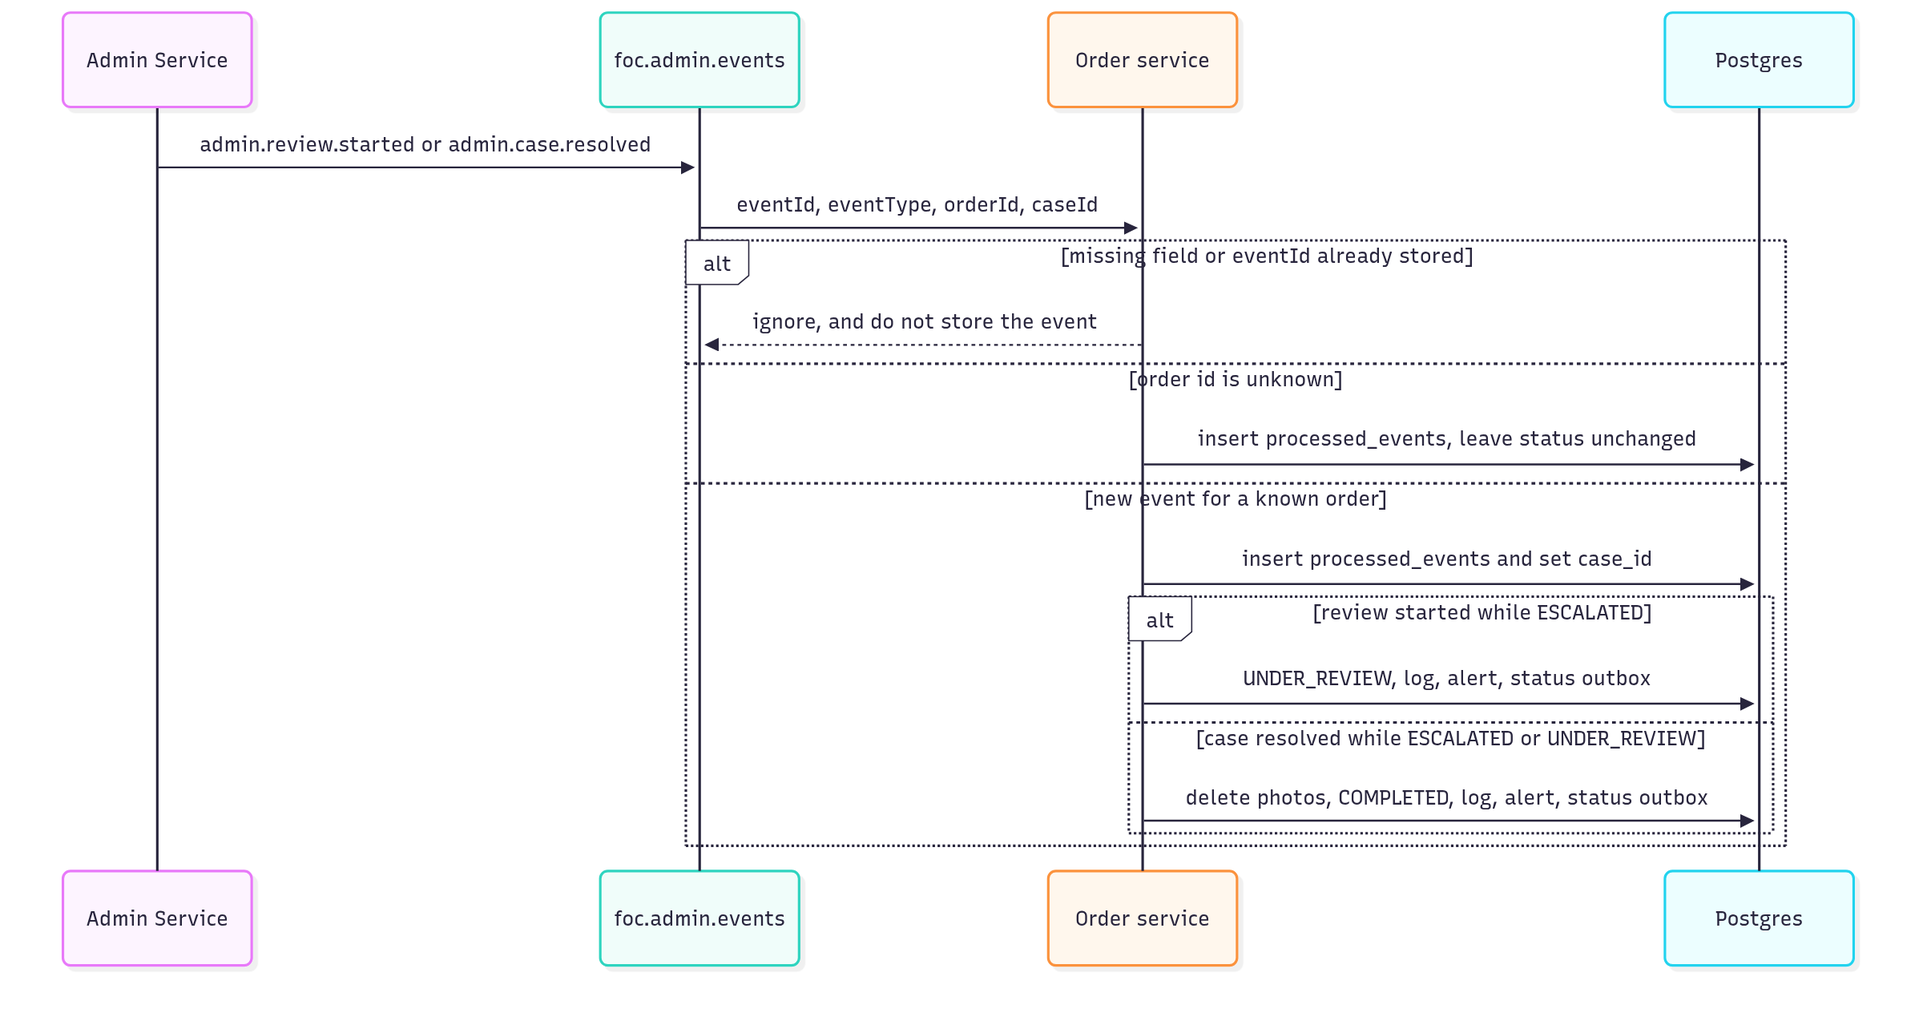
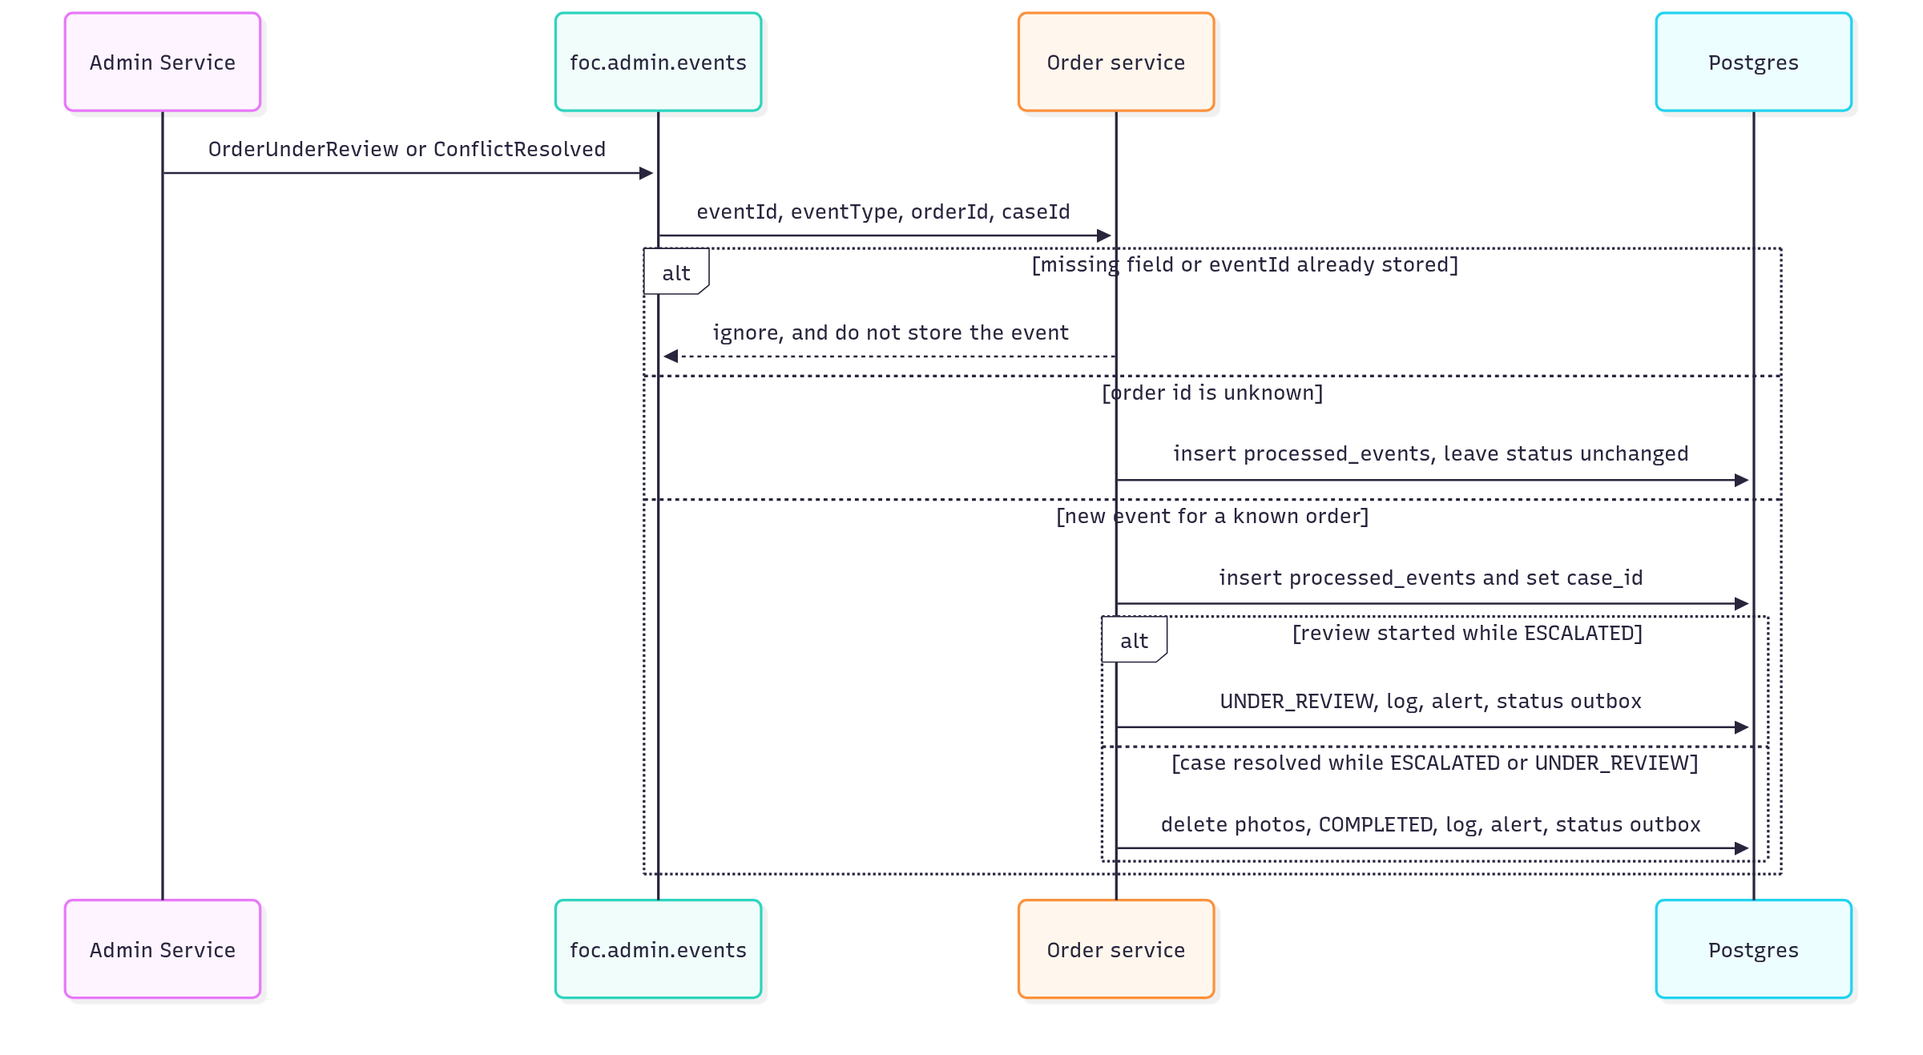
Integrate with Admin Service

diff --git a/order-service/src/main/java/sg/edu/nus/cs3219/order/service/OrderCommandService.java b/order-service/src/main/java/sg/edu/nus/cs3219/order/service/OrderCommandService.java
@@ -5,7 +5,6 @@ import org.springframework.transaction.annotation.Transactional;
 import org.springframework.web.multipart.MultipartFile;
 import sg.edu.nus.cs3219.order.client.AdminClient;
 import sg.edu.nus.cs3219.order.client.CreditClient;
-import sg.edu.nus.cs3219.order.client.OrderContext;
 import sg.edu.nus.cs3219.order.client.Place;
 import sg.edu.nus.cs3219.order.client.RatingClient;
 import sg.edu.nus.cs3219.order.client.SupplierClient;
@@ -31,6 +30,8 @@ import sg.edu.nus.cs3219.order.rest.CreateOrderRequest;
 
 import java.time.Clock;
 import java.time.Instant;
+import java.util.ArrayList;
+import java.util.List;
 import java.util.UUID;
 
 @Service
@@ -232,7 +233,7 @@ public class OrderCommandService {
         if (photo != null && !photo.isEmpty()) {
             order.setDisputePhotoRef(photos.store(orderId, "dispute", photo));
         }
-        admins.escalate(orderContext(order, comment), requester);
+        admins.openConflict(order.getId(), requester.userId(), comment, evidence(order));
         order.setDisputeText(comment);
         transition(order, OrderStatus.ESCALATED, true, now, OrderAction.ESCALATED, requester.userId());
         return order;
@@ -264,8 +265,8 @@ public class OrderCommandService {
         if (!OrderStateMachine.deliveryMissed(order.snapshot(), now)) {
             return;
         }
+        admins.openConflict(order.getId(), order.getRequesterId(), "Delivery deadline missed", evidence(order));
         transition(order, OrderStatus.ESCALATED, true, now, OrderAction.DELIVERY_DEADLINE_MISSED, null);
-        outbox.append(order.getId(), KafkaTopics.ADMIN_COMMANDS, messages.escalationOpened(order, now), now);
     }
 
     @Transactional
@@ -319,6 +320,20 @@ public class OrderCommandService {
         }
     }
 
+    private static List<String> evidence(OrderEntity order) {
+        List<String> refs = new ArrayList<>();
+        addEvidence(refs, order.getCollectionPhotoRef());
+        addEvidence(refs, order.getDeliveryPhotoRef());
+        addEvidence(refs, order.getDisputePhotoRef());
+        return refs;
+    }
+
+    private static void addEvidence(List<String> refs, String ref) {
+        if (ref != null && !ref.isBlank()) {
+            refs.add(ref);
+        }
+    }
+
     private void releaseAndAllowRequesterRating(OrderEntity order, String reason, Instant now) {
         outbox.append(order.getId(), KafkaTopics.CREDIT, messages.creditRelease(order, reason, now), now);
         outbox.append(
@@ -367,38 +382,6 @@ public class OrderCommandService {
                 KafkaTopics.ORDER_STATUS,
                 messages.statusChanged(order, from, to, notifyRequester, now),
                 now
-        );
-    }
-
-    private static OrderContext orderContext(OrderEntity order, String comment) {
-        return new OrderContext(
-                order.getId(),
-                order.getStatus().name(),
-                order.getItemDescription(),
-                order.getAmount(),
-                order.getRequesterId(),
-                order.getRequesterTelegramHandle(),
-                order.getRequesterRating(),
-                order.getCourierId(),
-                order.getCourierTelegramHandle(),
-                order.getCourierRating(),
-                order.getRequestTime(),
-                order.getAcceptanceExpiry(),
-                order.getDeliveryDeadline(),
-                order.getCollectionDeadline(),
-                order.getAcknowledgementDeadline(),
-                order.getPickupLocationId(),
-                order.getPickupName(),
-                order.getPickupLat(),
-                order.getPickupLng(),
-                order.getDropoffLocationId(),
-                order.getDropoffName(),
-                order.getDropoffLat(),
-                order.getDropoffLng(),
-                order.getCollectionPhotoRef(),
-                order.getDeliveryPhotoRef(),
-                order.getDisputePhotoRef(),
-                comment
         );
     }
 

diff --git a/order-service/src/main/java/sg/edu/nus/cs3219/order/client/HttpClients.java b/order-service/src/main/java/sg/edu/nus/cs3219/order/client/HttpClients.java
@@ -15,18 +15,21 @@ import tools.jackson.databind.JsonNode;
 import tools.jackson.databind.json.JsonMapper;
 
 import java.time.Duration;
+import java.util.List;
 import java.util.UUID;
 
 @Component
-public class HttpClients implements CreditClient, SupplierClient, UserClient {
+public class HttpClients implements CreditClient, SupplierClient, UserClient, AdminClient {
 
     private static final String NOT_APPROVED = "That location is not an approved supplier";
     private static final String USER_FAILED = "User service could not complete the request";
+    private static final String ADMIN_FAILED = "Admin service could not complete the request";
     private static final String SERVICE_TOKEN = "X-Service-Token";
 
     private final RestClient credits;
     private final RestClient suppliers;
     private final RestClient users;
+    private final RestClient admins;
     private final String userLookupToken;
 
     public HttpClients(OrderProperties properties) {
@@ -34,6 +37,7 @@ public class HttpClients implements CreditClient, SupplierClient, UserClient {
         this.credits = client(properties.getClients().getCreditBaseUrl(), timeout);
         this.suppliers = client(properties.getClients().getSupplierBaseUrl(), timeout);
         this.users = client(properties.getClients().getUserBaseUrl(), timeout);
+        this.admins = client(properties.getClients().getAdminBaseUrl(), timeout);
         this.userLookupToken = properties.getClients().getUserLookupToken();
     }
 
@@ -88,6 +92,25 @@ public class HttpClients implements CreditClient, SupplierClient, UserClient {
             throw userFailure(exception);
         } catch (ResourceAccessException exception) {
             throw ApiException.unavailable("User service did not respond in time");
+        }
+    }
+
+    @Override
+    public void openConflict(UUID orderId, String reporterUserId, String comment, List<String> photos) {
+        try {
+            admins.post()
+                    .uri("/api/v1/admin/conflicts")
+                    .body(new ConflictRequest(orderId.toString(), reporterUserId, comment, photos == null ? List.of() : photos))
+                    .retrieve()
+                    .toBodilessEntity();
+        } catch (RestClientResponseException exception) {
+            int status = exception.getStatusCode().value();
+            if (status == 400 || status == 422) {
+                throw ApiException.badRequest("Admin service rejected the escalation");
+            }
+            throw ApiException.unavailable(ADMIN_FAILED);
+        } catch (ResourceAccessException exception) {
+            throw ApiException.unavailable("Admin service did not respond in time");
         }
     }
 
@@ -169,6 +192,9 @@ public class HttpClients implements CreditClient, SupplierClient, UserClient {
     }
 
     private record ReleaseRequest(UUID orderId) {
+    }
+
+    private record ConflictRequest(String orderId, String reporterUserId, String comment, List<String> photos) {
     }
 
     private record SupplierResponse(Integer id, String name, double latitude, double longitude, String status) {

diff --git a/order-service/src/test/java/sg/edu/nus/cs3219/order/client/HttpClientsTest.java b/order-service/src/test/java/sg/edu/nus/cs3219/order/client/HttpClientsTest.java
@@ -80,6 +80,18 @@ class HttpClientsTest {
                     status = 500;
                     yield "{\"error\":\"nope\",\"code\":\"INTERNAL_ERROR\"}".getBytes(StandardCharsets.UTF_8);
                 }
+                case "/api/v1/admin/conflicts" -> {
+                    if (requestBody.contains("\"comment\":\"\"")) {
+                        status = 422;
+                        yield "{\"detail\":\"rejected\"}".getBytes(StandardCharsets.UTF_8);
+                    }
+                    if (requestBody.contains("admin-down")) {
+                        status = 500;
+                        yield "{\"detail\":\"nope\"}".getBytes(StandardCharsets.UTF_8);
+                    }
+                    status = 201;
+                    yield "{\"id\":\"case-1\"}".getBytes(StandardCharsets.UTF_8);
+                }
                 default -> {
                     CreditProblem credit = creditProblem(requestBody);
                     if (credit == null) {
@@ -129,6 +141,17 @@ class HttpClientsTest {
         assertEquals(HttpStatus.CONFLICT, assertThrows(ApiException.class, () -> clients.telegramHandle("unverified")).getStatus());
         assertEquals(HttpStatus.SERVICE_UNAVAILABLE, assertThrows(ApiException.class, () -> clients.telegramHandle("blank")).getStatus());
         assertEquals(HttpStatus.SERVICE_UNAVAILABLE, assertThrows(ApiException.class, () -> clients.telegramHandle("down")).getStatus());
+
+        clients.openConflict(orderId, "ada-id", "wrong item", java.util.List.of("a.png"));
+        assertEquals("/api/v1/admin/conflicts", lastPath.get());
+        assertTrue(lastBody.get().contains("\"orderId\":\"" + orderId + "\""));
+        assertTrue(lastBody.get().contains("\"reporterUserId\":\"ada-id\""));
+        assertTrue(lastBody.get().contains("\"comment\":\"wrong item\""));
+        assertTrue(lastBody.get().contains("a.png"));
+        assertEquals(HttpStatus.BAD_REQUEST, assertThrows(ApiException.class,
+                () -> clients.openConflict(orderId, "ada-id", "", java.util.List.of())).getStatus());
+        assertEquals(HttpStatus.SERVICE_UNAVAILABLE, assertThrows(ApiException.class,
+                () -> clients.openConflict(orderId, "ada-id", "admin-down", java.util.List.of())).getStatus());
     }
 
     @Test
@@ -171,6 +194,7 @@ class HttpClientsTest {
         assertThrows(ApiException.class, () -> down.returnReserved(orderId, ada));
         assertThrows(ApiException.class, () -> down.requirePlace("2", ada));
         assertThrows(ApiException.class, () -> down.telegramHandle("11111111-1111-1111-1111-111111111111"));
+        assertThrows(ApiException.class, () -> down.openConflict(orderId, "ada-id", "wrong item", java.util.List.of()));
     }
 
     private static CreditProblem creditProblem(String body) {

diff --git a/order-service/src/main/java/sg/edu/nus/cs3219/order/messaging/AdminEventListener.java b/order-service/src/main/java/sg/edu/nus/cs3219/order/messaging/AdminEventListener.java
@@ -27,10 +27,11 @@ public class AdminEventListener {
     public void onMessage(String payload) {
         try {
             JsonNode node = mapper.readTree(payload);
+            JsonNode body = node.path("payload").isObject() ? node.path("payload") : node;
             String eventId = text(node, "eventId");
-            String eventType = text(node, "eventType");
-            String orderId = text(node, "orderId");
-            String caseId = text(node, "caseId");
+            String eventType = adminEvent(text(node, "eventType"));
+            String orderId = firstText(body, node, "orderId");
+            String caseId = firstText(body, node, "caseId");
             if (orderId == null) {
                 return;
             }
@@ -42,6 +43,21 @@ public class AdminEventListener {
         } catch (Exception exception) {
             log.warn("Admin event was ignored because it could not be read", exception);
         }
+    }
+
+    private static String adminEvent(String eventType) {
+        if ("OrderUnderReview".equals(eventType)) {
+            return "admin.review.started";
+        }
+        if ("ConflictResolved".equals(eventType)) {
+            return "admin.case.resolved";
+        }
+        return eventType;
+    }
+
+    private static String firstText(JsonNode preferred, JsonNode fallback, String field) {
+        String value = text(preferred, field);
+        return value == null ? text(fallback, field) : value;
     }
 
     private static String text(JsonNode node, String field) {

diff --git a/order-service/src/test/java/sg/edu/nus/cs3219/order/service/OrderCommandServiceTest.java b/order-service/src/test/java/sg/edu/nus/cs3219/order/service/OrderCommandServiceTest.java
@@ -324,12 +324,7 @@ class OrderCommandServiceTest {
         when(photos.store(id, "dispute", photo)).thenReturn(id + "/dispute.png");
         OrderEntity escalated = service.escalate(requester, id, "wrong item", photo);
         assertEquals(id + "/dispute.png", escalated.getDisputePhotoRef());
-        verify(admins).escalate(org.mockito.ArgumentMatchers.argThat(context ->
-                context.orderId().equals(id)
-                        && "wrong item".equals(context.comment())
-                        && "DELIVERED".equals(context.status())
-                        && "22222222-2222-2222-2222-222222222222".equals(context.courierId())
-                        && (id + "/dispute.png").equals(context.disputePhotoRef())), eq(requester));
+        verify(admins).openConflict(eq(id), eq(requester.userId()), eq("wrong item"), eq(java.util.List.of(id + "/dispute.png")));
     }
 
     @Test
@@ -377,6 +372,11 @@ class OrderCommandServiceTest {
         when(orders.lockById(id)).thenReturn(Optional.of(missed));
         service.escalateMissedDelivery(id, now);
         assertEquals(OrderStatus.ESCALATED, missed.getStatus());
+        verify(admins).openConflict(
+                eq(id),
+                eq("11111111-1111-1111-1111-111111111111"),
+                eq("Delivery deadline missed"),
+                eq(java.util.List.of(id + "/collection.png", id + "/delivery.png")));
 
         OrderEntity onTime = openOrder();
         onTime.setStatus(OrderStatus.COLLECTED);

diff --git a/order-service/src/test/java/sg/edu/nus/cs3219/order/client/StubClientsTest.java b/order-service/src/test/java/sg/edu/nus/cs3219/order/client/StubClientsTest.java
@@ -1,30 +1,15 @@
 package sg.edu.nus.cs3219.order.client;
 
 import org.junit.jupiter.api.Test;
-import sg.edu.nus.cs3219.order.rest.ApiException;
-
-import java.util.UUID;
 
 import static org.junit.jupiter.api.Assertions.assertEquals;
-import static org.junit.jupiter.api.Assertions.assertThrows;
 
 class StubClientsTest {
 
     private final StubClients clients = new StubClients();
 
     @Test
-    void ratingsAndEscalationsStayLocal() {
+    void ratingsStayLocal() {
         assertEquals(5.0, clients.ratingFor("55555555-5555-5555-5555-555555555555", null));
-        clients.escalate(context(UUID.randomUUID(), "wrong item"), null);
-        assertThrows(ApiException.class, () -> clients.escalate(null, null));
-        OrderContext blank = context(UUID.randomUUID(), " ");
-        assertThrows(ApiException.class, () -> clients.escalate(blank, null));
-        OrderContext missingOrder = context(null, "wrong item");
-        assertThrows(ApiException.class, () -> clients.escalate(missingOrder, null));
-    }
-
-    private static OrderContext context(UUID orderId, String comment) {
-        return new OrderContext(orderId, null, null, 1, null, null, null, null, null, null,
-                null, null, null, null, null, null, null, 0, 0, null, null, 0, 0, null, null, null, comment);
     }
 }

diff --git a/order-service/src/test/java/sg/edu/nus/cs3219/order/messaging/MessagingTest.java b/order-service/src/test/java/sg/edu/nus/cs3219/order/messaging/MessagingTest.java
@@ -136,6 +136,10 @@ class MessagingTest {
         UUID orderId = UUID.randomUUID();
         listener.onMessage("{\"eventId\":\"e1\",\"eventType\":\"admin.review.started\",\"orderId\":\"" + orderId + "\",\"caseId\":\"case-1\"}");
         verify(commands).applyAdminEvent("e1", "admin.review.started", orderId, "case-1");
+        listener.onMessage("{\"eventId\":\"e4\",\"eventType\":\"OrderUnderReview\",\"version\":1,\"timestamp\":\"2026-10-21T00:00:00Z\",\"payload\":{\"orderId\":\"" + orderId + "\",\"caseId\":\"case-4\"}}");
+        verify(commands).applyAdminEvent("e4", "admin.review.started", orderId, "case-4");
+        listener.onMessage("{\"eventId\":\"e5\",\"eventType\":\"ConflictResolved\",\"version\":1,\"payload\":{\"orderId\":\"" + orderId + "\",\"caseId\":\"case-5\",\"faultParty\":\"courier\"}}");
+        verify(commands).applyAdminEvent("e5", "admin.case.resolved", orderId, "case-5");
 
         listener.onMessage("{");
         listener.onMessage("{\"eventId\":\"e2\",\"eventType\":\"admin.review.started\",\"orderId\":\"not-a-uuid\",\"caseId\":\"case-1\"}");

diff --git a/order-service/src/main/java/sg/edu/nus/cs3219/order/client/StubClients.java b/order-service/src/main/java/sg/edu/nus/cs3219/order/client/StubClients.java
@@ -1,20 +1,12 @@
 package sg.edu.nus.cs3219.order.client;
 
 import org.springframework.stereotype.Component;
-import sg.edu.nus.cs3219.order.rest.ApiException;
 
 @Component
-public class StubClients implements RatingClient, AdminClient {
+public class StubClients implements RatingClient {
 
     @Override
     public double ratingFor(String userId, UserAccount caller) {
         return 5.0;
-    }
-
-    @Override
-    public void escalate(OrderContext order, UserAccount caller) {
-        if (order == null || order.orderId() == null || order.comment() == null || order.comment().isBlank()) {
-            throw ApiException.badRequest("A dispute description is required");
-        }
     }
 }

diff --git a/order-service/src/main/java/sg/edu/nus/cs3219/order/client/AdminClient.java b/order-service/src/main/java/sg/edu/nus/cs3219/order/client/AdminClient.java
@@ -1,6 +1,9 @@
 package sg.edu.nus.cs3219.order.client;
 
+import java.util.List;
+import java.util.UUID;
+
 public interface AdminClient {
 
-    void escalate(OrderContext order, UserAccount caller);
+    void openConflict(UUID orderId, String reporterUserId, String comment, List<String> photos);
 }

diff --git a/order-service/docs/interfaces.md b/order-service/docs/interfaces.md
@@ -61,7 +61,7 @@ These HTTP calls finish before the order row changes. A failure leaves the previ
 | Accept | `GET /api/v1/user/internal/users/{userId}/telegram` with `X-Service-Token` before the order is claimed |
 | Create, if the insert fails | `POST /api/v1/credit/release` with `{ orderId }` |
 | Requester cancels CREATED | `POST /api/v1/credit/release` before the status becomes CANCELLED |
-| Requester escalates | `POST /escalations` on the admin client. Rating and admin clients are local stubs. Rating always returns 5.0. Admin accepts a non-blank comment |
+| Requester escalates, and a collected order that misses its delivery deadline | `POST /api/v1/admin/conflicts` with `{ orderId, reporterUserId, comment, photos }` before the status becomes ESCALATED. A repeat for the same order is accepted. Rating still returns 5.0 locally |
 
 Courier release does not call Credit. The reservation stays with the order.
 
@@ -77,9 +77,8 @@ Every published payload has `eventId`, `eventType`, `schemaVersion` (1), `occurr
 | foc.credit.commands | credit.reservation.return | Acceptance expiry. `reason` is `EXPIRED` |
 | foc.credit.commands | credit.reservation.release | Acknowledge or unacknowledge. `reason` is `ACKNOWLEDGED` or `UNACKNOWLEDGED`, and the payload includes `courierId` and `amount` |
 | foc.rating.commands | rating.permission.granted | Deliver: courier rates requester. Acknowledge or unacknowledge: requester rates courier. Fields: `raterId`, `raterRole`, `rateeId`, `rateeRole` |
-| foc.admin.commands | admin.escalation.opened | Sweeper only, when a COLLECTED order misses the delivery deadline. `reason` is `DELIVERY_DEADLINE_MISSED` |
-| foc.admin.events | admin.review.started | Consumed. ESCALATED → UNDER_REVIEW when `caseId` is present |
-| foc.admin.events | admin.case.resolved | Consumed. ESCALATED or UNDER_REVIEW → COMPLETED, and photos are deleted |
+| foc.admin.events | OrderUnderReview | Consumed. ESCALATED → UNDER_REVIEW when `payload.caseId` is present |
+| foc.admin.events | ConflictResolved | Consumed. ESCALATED or UNDER_REVIEW → COMPLETED, and photos are deleted |
 
 `order.status.changed` has no consumer in this service. A duplicate `eventId`, a missing field, or a non-UUID order id is ignored and is not stored. A readable event for an unknown order is stored in `processed_events` and does not change a status. A known order stores the event, copies `caseId`, and changes status only when the current status allows that event. A failure while applying a readable event is retried.
 

diff --git a/order-service/README.md b/order-service/README.md
@@ -40,7 +40,7 @@ docker compose exec kafka-tools bash /defaults/send.sh admin.case.resolved <orde
 
 Create and cancel call Credit Service (`POST /api/v1/credit/reserve` and `POST /api/v1/credit/release`). Pickup and dropoff ids are Supplier Service numeric ids; only `approved` suppliers are accepted (`GET /api/v1/supplier/{id}`). The `local` profile calls User Service at `http://localhost:8080`, Credit Service at `http://localhost:3000`, and Supplier Service at `http://localhost:8081`. Deployed environments override those with `USER_SERVICE_URL`, `CREDIT_SERVICE_URL`, `SUPPLIER_SERVICE_URL`, `RATING_SERVICE_URL`, and `ADMIN_SERVICE_URL`. Create and accept look up the caller's Telegram handle with `GET /api/v1/user/internal/users/{userId}/telegram`. That call sends `X-Service-Token`, which must be the same value as the User Service `ORDER_USER_LOOKUP_TOKEN`.
 
-The API gateway sends `X-User-Id` and `X-Permitted-Action`. Every order endpoint accepts the call only when `X-Permitted-Action` is `true`. Bruno sends those headers directly. Courier ratings and requester escalations still use local stand-ins, because Rating Service and Admin Service are not in this repository.
+The API gateway sends `X-User-Id` and `X-Permitted-Action`. Every order endpoint accepts the call only when `X-Permitted-Action` is `true`. Bruno sends those headers directly. Courier ratings still use a local stand-in, because Rating Service is not in this repository. Requester escalation and a missed delivery deadline call Admin Service at `POST /api/v1/admin/conflicts`.
 
 ## Images
 
